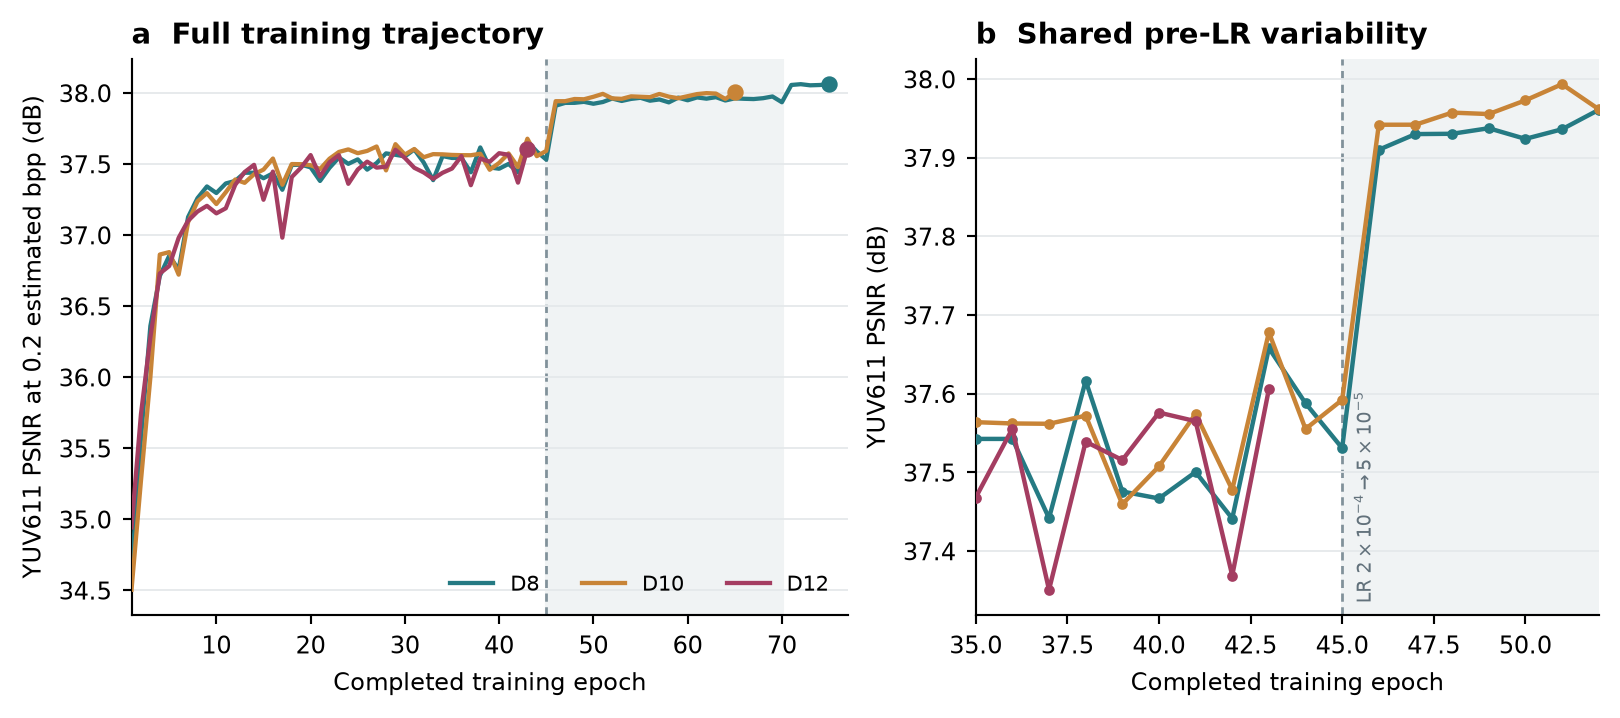
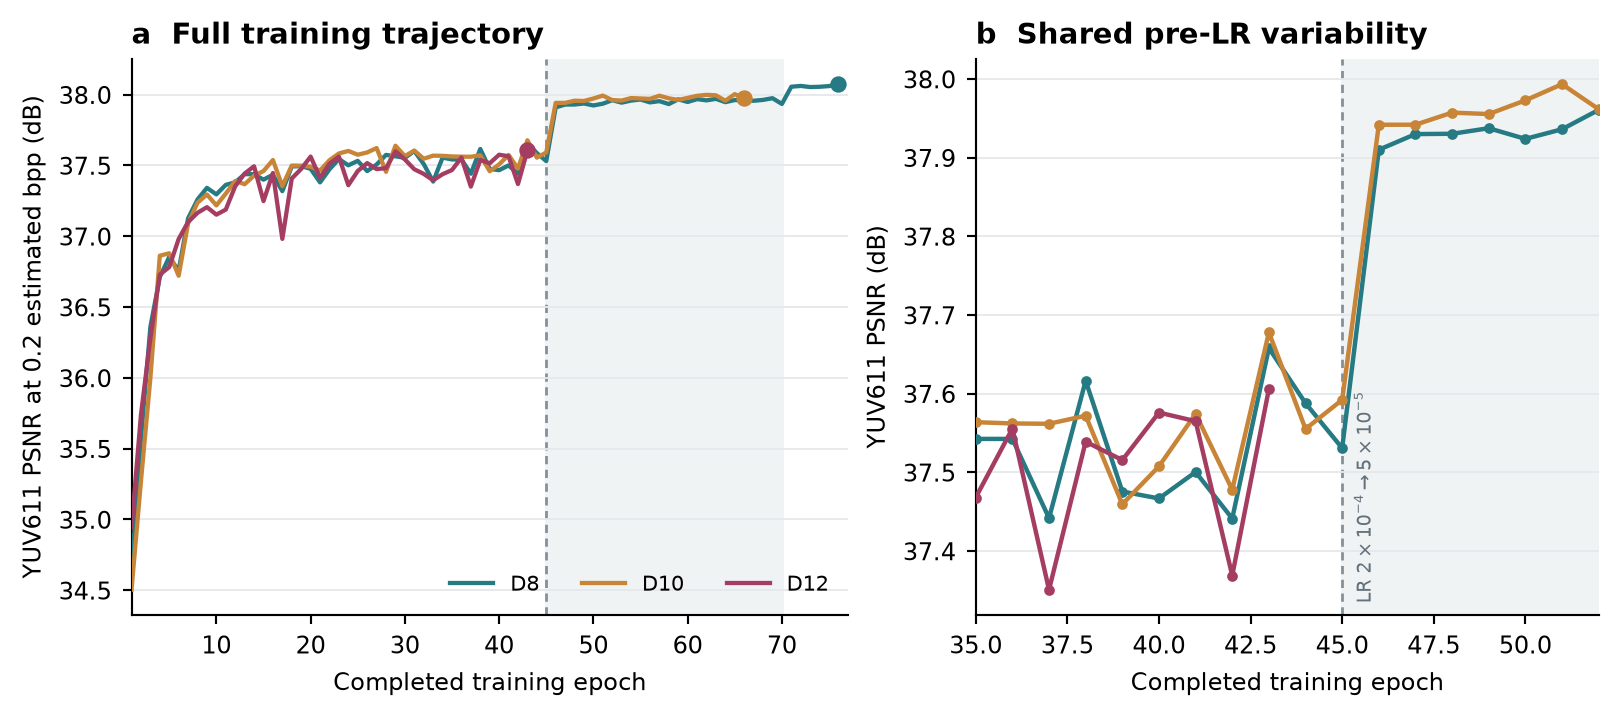
Refresh official-depth CPU validation monitor through epoch 76

diff --git a/docs/research/2026-10-04-active-depth-health/HEALTH_REPORT.md b/docs/research/2026-10-04-active-depth-health/HEALTH_REPORT.md
@@ -4,11 +4,11 @@ This is a CPU-only audit of the live official-recipe runs. The training jobs, ch
 
 | Model | Live epoch at audit | Latest monitor | Best monitor so far | Nonfinite skips |
 |:--|--:|--:|--:|--:|
-| D8 | 75/105 | 38.060 dB | 38.062 dB (epoch 72) | 0 |
-| D10 | 65/105 | 38.004 dB | 38.004 dB (epoch 65) | 0 |
+| D8 | 76/105 | 38.074 dB | 38.074 dB (epoch 76) | 0 |
+| D10 | 66/105 | 37.973 dB | 38.004 dB (epoch 65) | 0 |
 | Scratch D12 | 43/105 | 37.606 dB | 37.606 dB (epoch 43) | 0 |
 
-At the matched 40th epoch, D8/D10/D12 give 37.467/37.508/37.576 dB. At epoch 42 they give 37.441/37.478/37.369 dB. **D12 rebounds to 37.606 dB at epoch 43, a new best on this monitor**; its QP63 YUV611 PSNR likewise recovers from 40.631 to 41.219 dB. The dip was real on the fixed samples but was not a persistent collapse. D12 is still in the official **2×10⁻⁴ LR phase through epoch 44**. D8 and D10 also fluctuate in this phase and then rise sharply after the official LR reduction at epoch 45; by epoch 50 they reach 37.924 and 37.973 dB. The 512-pixel crop phase begins at epoch 90 and has not started for any of these runs.
+At the matched 40th epoch, D8/D10/D12 give 37.467/37.508/37.576 dB. At epoch 42 they give 37.441/37.478/37.369 dB. **D12 rebounds to 37.606 dB at epoch 43, a new best on this monitor**; its QP63 YUV611 PSNR likewise recovers from 40.631 to 41.219 dB. The dip was real on the fixed samples but was not a persistent collapse. D12 is still in the official **2×10⁻⁴ LR phase through epoch 44**. D8 and D10 also fluctuate in this phase and then rise sharply after the official LR reduction at epoch 45; by epoch 50 they reach 37.924 and 37.973 dB. D8 set a further monitor best of 38.074 dB at epoch 76; D10's 37.973 dB at epoch 66 is 0.031 dB below its epoch-65 best, a single-epoch fluctuation rather than a demonstrated deterioration. The 512-pixel crop phase begins at epoch 90 and has not started for any of these runs.
 
 All three status files were fresh, their processes were alive and producing optimizer updates, and no nonfinite batches were skipped. A single instantaneous `nvidia-smi` sample can show low utilisation during data/checkpoint work; the status step counters are the more reliable liveness check. A concern would be **persistent deterioration after D12 crosses the 45-epoch LR transition**, ideally checked on a broader held-out image set and at actual bitstream rates. Stopping or changing LR now would violate the official recipe and invalidate the direct depth comparison.
 
